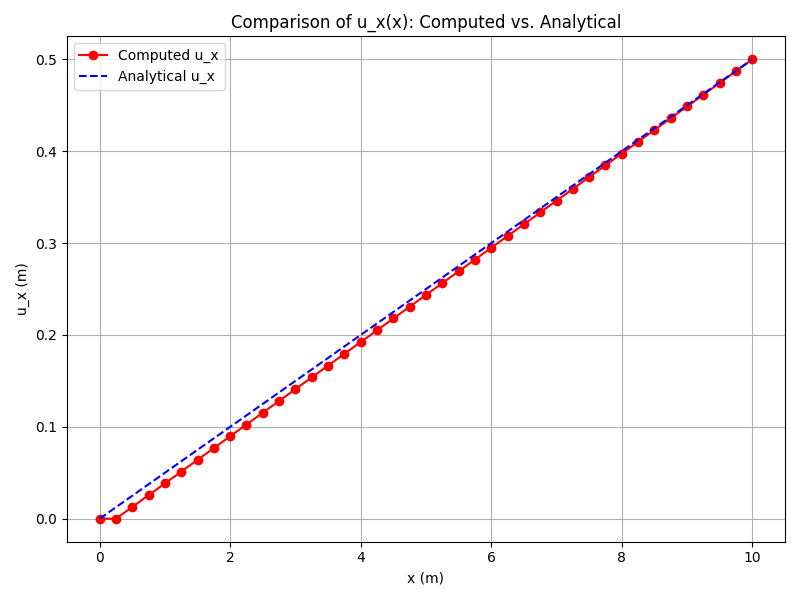
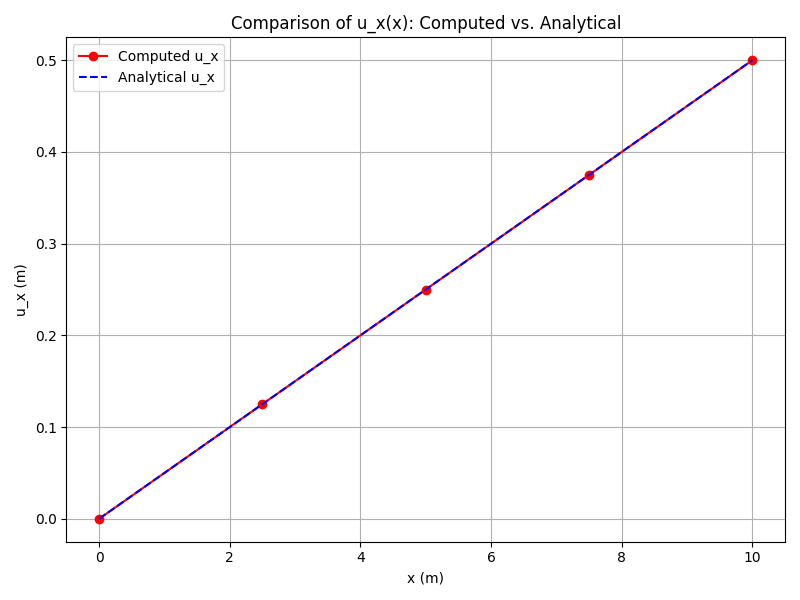
fixed mistake in how BCs were assigned in example

diff --git a/tutorials/full_code_example_1.py b/tutorials/full_code_example_1.py
@@ -1,10 +1,16 @@
+import warnings
+warnings.simplefilter("always")
 from finiteelementanalysis import pre_process as pre
+from finiteelementanalysis import pre_process_demo_helper_fcns as pre_demo
 from finiteelementanalysis.solver import hyperelastic_solver
 from finiteelementanalysis import visualize as viz
 import matplotlib.pyplot as plt
 import numpy as np
 from pathlib import Path
 
+
+# for saving files later
+tutorials_dir = Path(__file__).parent
 
 # Solve a homogeneous uniaxial extension problem and compare the computed displacement
 # field to the analytical solution u_x = (lambda - 1)*x and u_y = 0.
@@ -18,14 +24,14 @@ from pathlib import Path
 #     u_x(x) = (lambda - 1)*x,  u_y(x) = 0.
 
 # FEA problem info
-ele_type = "D2_nn3_tri"
+ele_type = "D2_nn4_quad"
 ndof = 2
 
 # Define domain
 L = 10.0      # length in x-direction
 H = 5.0       # height in y-direction
-nx = 40       # number of elements in x
-ny = 20       # number of elements in y, keep this an even number if you want the analytical solution to be able to compute midline deformation
+nx = 4       # number of elements in x
+ny = 2       # number of elements in y, keep this an even number if you want the analytical solution to be able to compute midline deformation
 
 # Prescribed stretch (e.g., lambda = 1.05 gives a 5% extension)
 lambda_target = 1.05
@@ -33,12 +39,17 @@ lambda_target = 1.05
 # Generate mesh
 coords, connect = pre.generate_rect_mesh_2d(ele_type, 0.0, 0.0, L, H, nx, ny)
 
+
+mesh_img_fname = tutorials_dir / "full_code_example_1_mesh.png"
+pre_demo.plot_mesh_2D(str(mesh_img_fname), ele_type, coords, connect)
+
+
 # Identify boundaries
 boundary_nodes, boundary_edges = pre.identify_rect_boundaries(coords, connect, ele_type, 0, L, 0, H)
 
 # Apply boundary conditions:
 # 1. Fix left boundary: both u_x and u_y = 0.
-fixed_left = pre.assign_fixed_nodes_rect(boundary_nodes, "left", 0, 0.0, 0.0)
+fixed_left = pre.assign_fixed_nodes_rect(boundary_nodes, "left", 0.0, 0.0)
 # 2. Prescribe right boundary: u_x = (lambda_target - 1)*L at x = L.
 fixed_right = pre.assign_fixed_nodes_rect(boundary_nodes, "right", (lambda_target - 1) * L, 0)
 # 3. To force a homogeneous state, prescribe u_y = 0 on the top and bottom boundaries.
@@ -97,7 +108,6 @@ plt.grid(True)
 plt.tight_layout()
 
 # Save the plot image to the tutorials directory.
-tutorials_dir = Path(__file__).parent
 img_fname = tutorials_dir / "uniaxial_extension_error.png"
 plt.savefig(str(img_fname))
 
